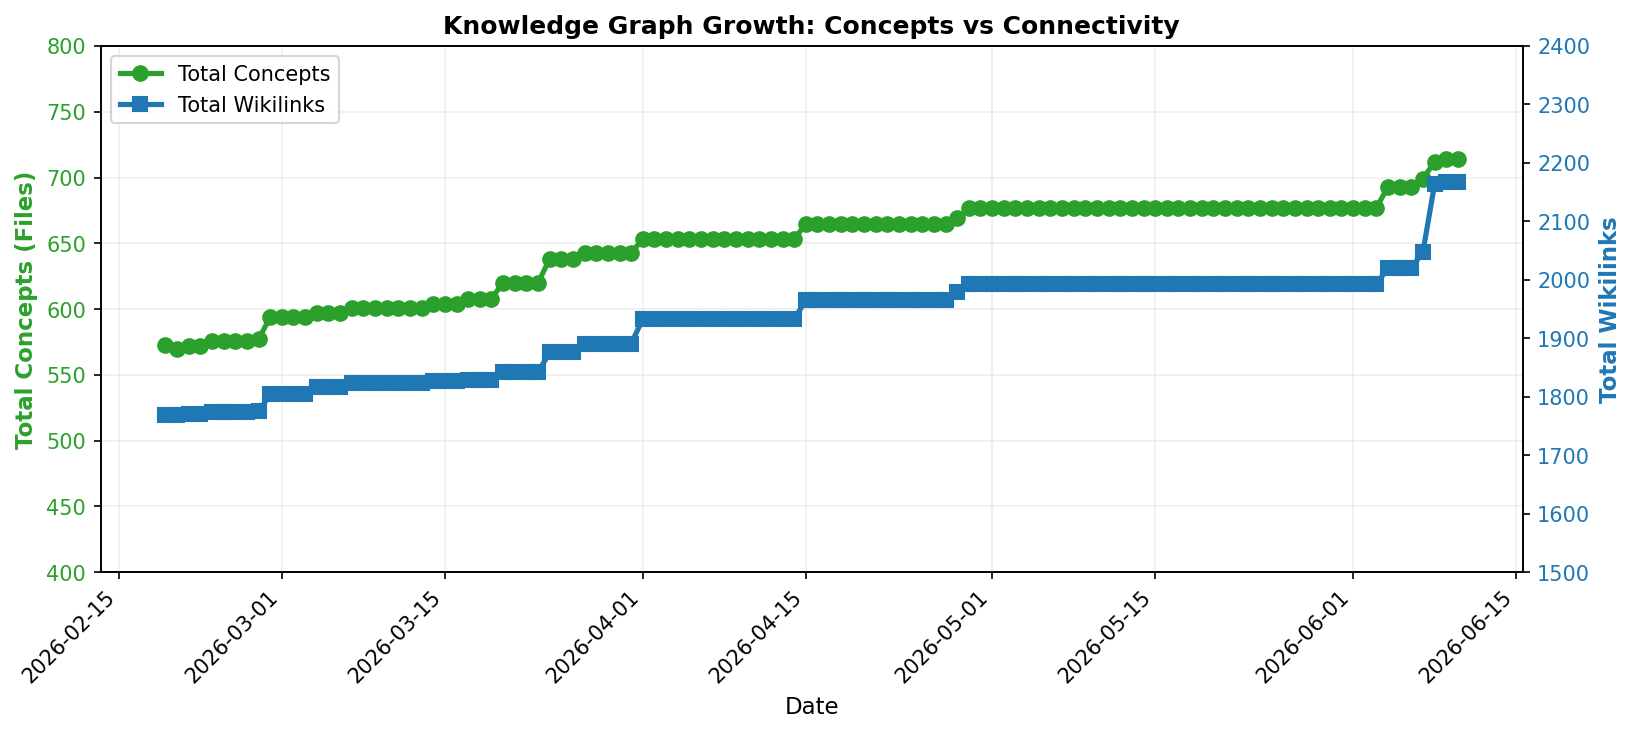
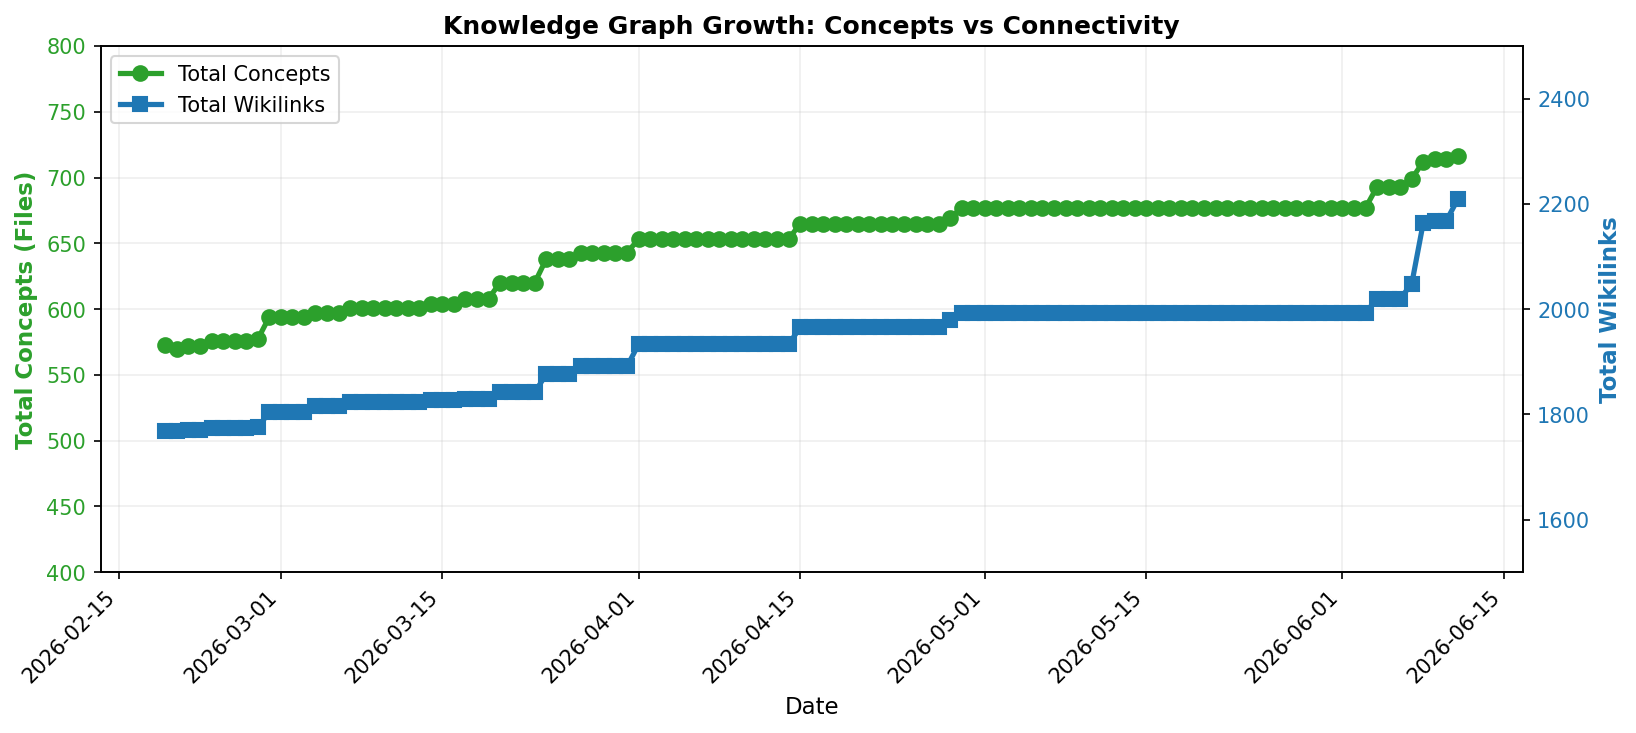
Update knowledge graph stats [skip ci]

diff --git a/README.md b/README.md
@@ -4,7 +4,7 @@
 
 ![Knowledge Glossary Growth](stats/chart.png)
 
-A personal knowledge graph containing **714 interconnected concepts** in data science, machine learning, and AI. Built as an [Obsidian](https://obsidian.md/) vault with typed relationships, this graph can serve as the foundation for a **data ontology**.
+A personal knowledge graph containing **716 interconnected concepts** in data science, machine learning, and AI. Built as an [Obsidian](https://obsidian.md/) vault with typed relationships, this graph can serve as the foundation for a **data ontology**.
 
 ## Structure
 